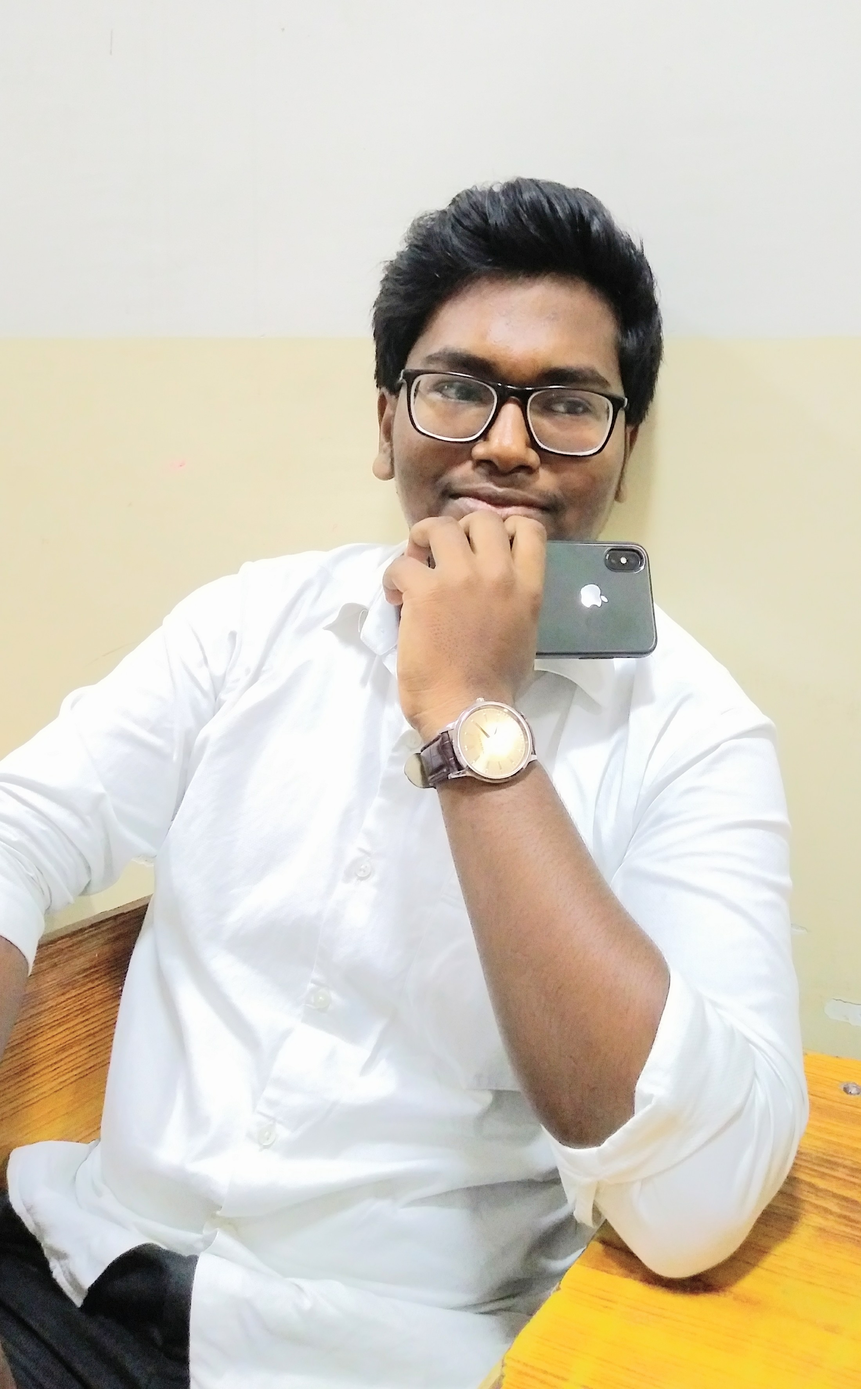
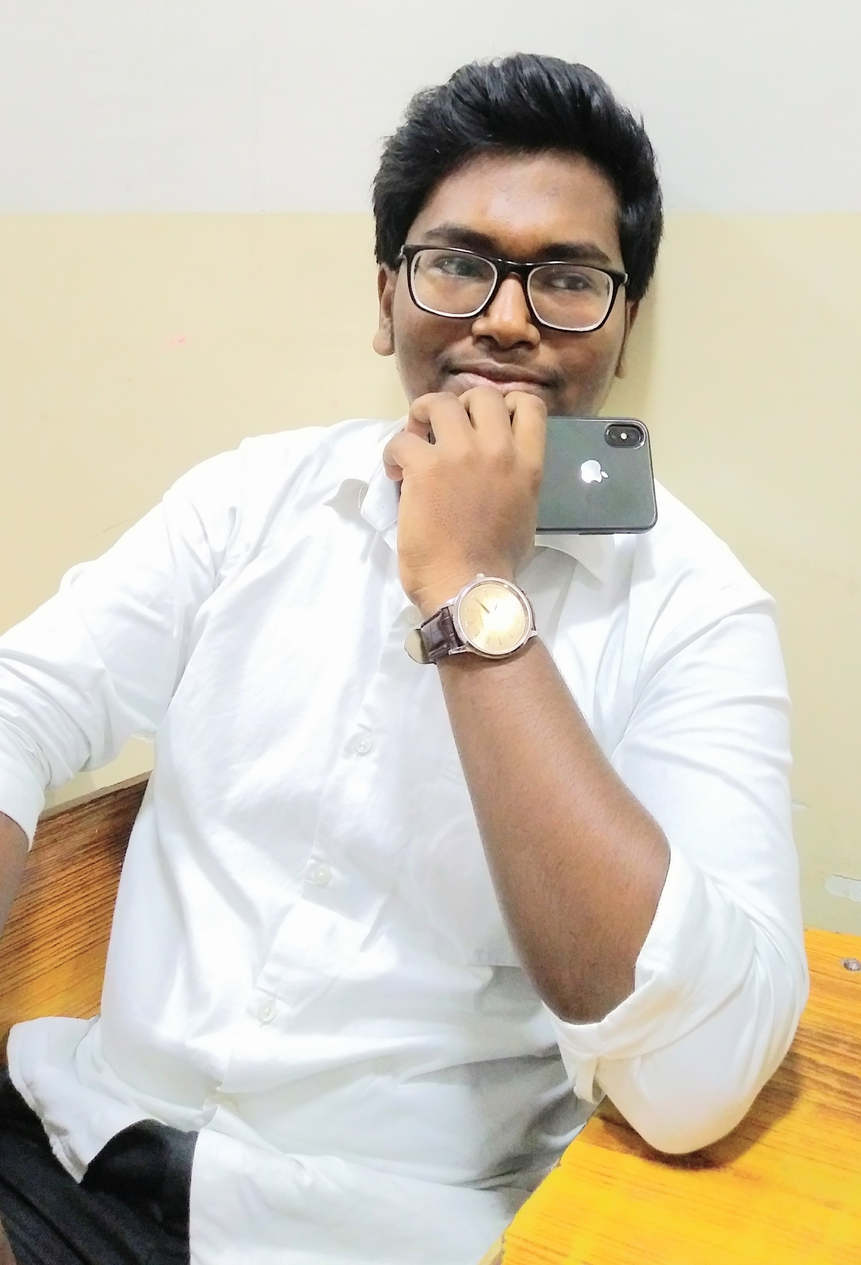
bg-img added

diff --git a/index.html b/index.html
@@ -17,7 +17,7 @@
     <!-- Dev Icon Pack -->
     <link rel="stylesheet" href="https://cdn.rawgit.com/konpa/devicon/df6431e323547add1b4cf45992913f15286456d3/devicon.min.css">
     <!-- Custom CSS -->
-    <link rel="stylesheet" href="C:\Users\nrc\Documents\style1.css">
+    <link rel="stylesheet" href="style.css">
     <link  rel="stylesheet" href="https://fonts.googleapis.com/css2?family=Comfortaa:wght@600&display=swap" rel="stylesheet">
     <link href="https://icongr.am/entypo/{icon}.svg?size={number}&color={hex}">
 
@@ -68,7 +68,7 @@
         <!-- Contents -->
         <div class="container homeContainer">
             <div class="row center-align">
-                <div style="background-image: url(https://drive.google.com/file/d/1uTyC-w4VZQ5VYDtdtoDqoZpWYZS7ofvm/view?usp=sharing); width: 100%;">
+                <div class="bg-img">
                       <img onclick="M.toast({html: 'Hi! Thanks for visiting my website! <br/>Hope you are good :)'})" class="z-depth-5 homePhoto" src="./Ashutosh Gautam.jpg" style="width: 300px; height: auto;">
                   </div>
                     <div class="col s12 homeProfile">

diff --git a/style.css b/style.css
@@ -1,0 +1,3 @@
+.bg-img{
+    background-image: url(./bgimg.jpg);
+}
